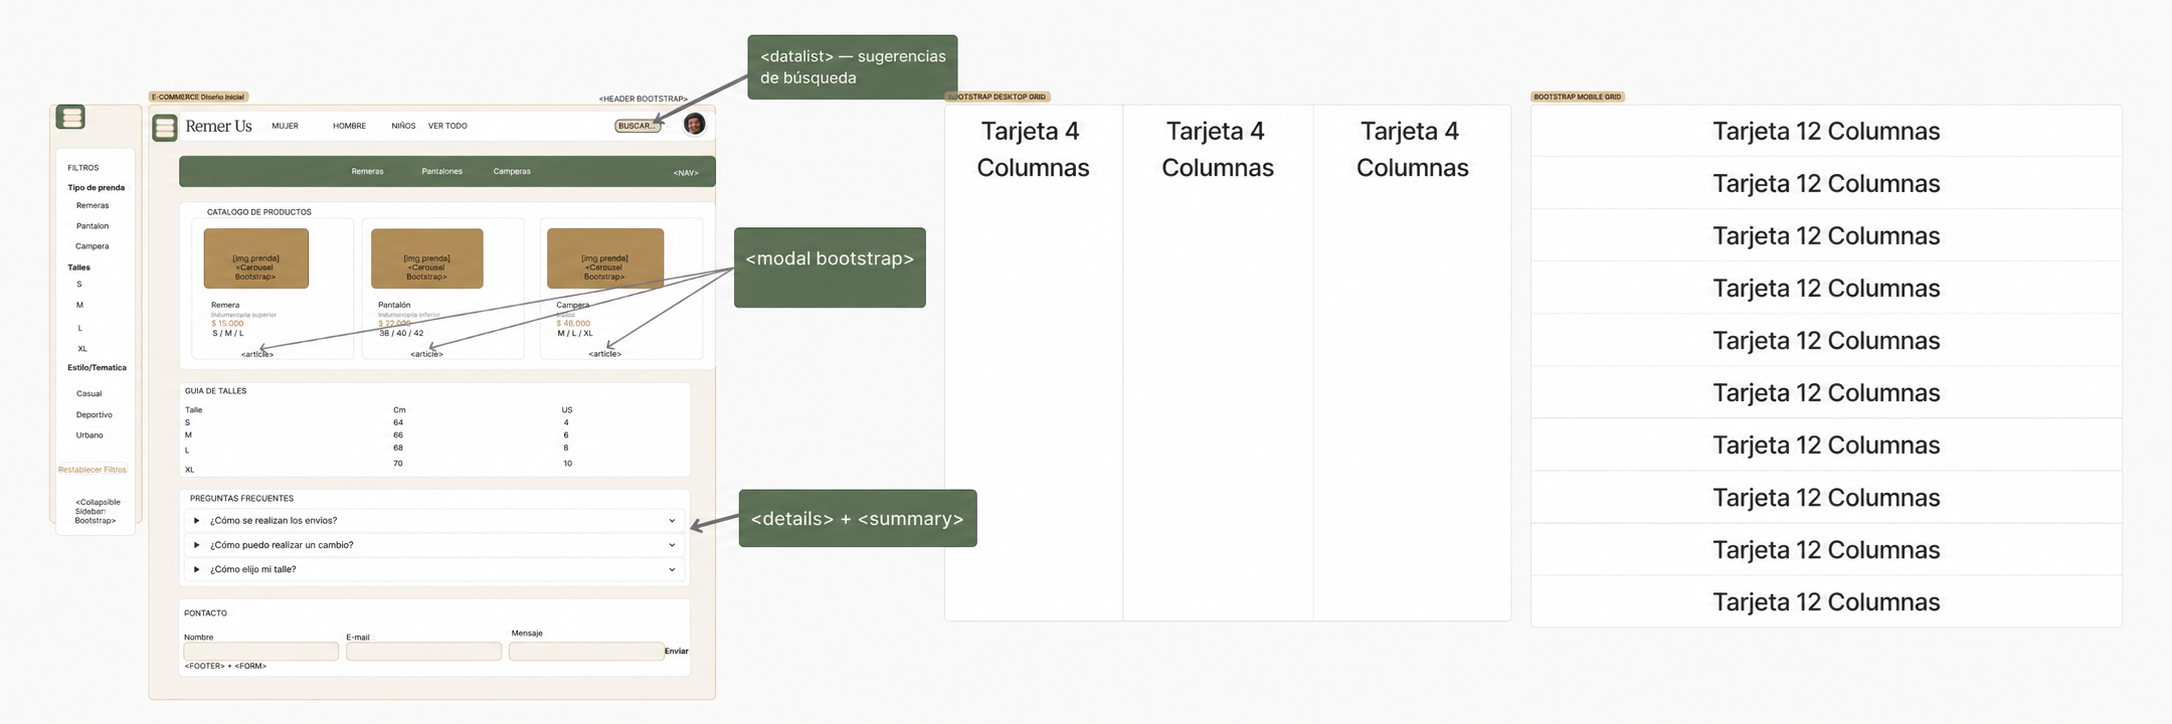
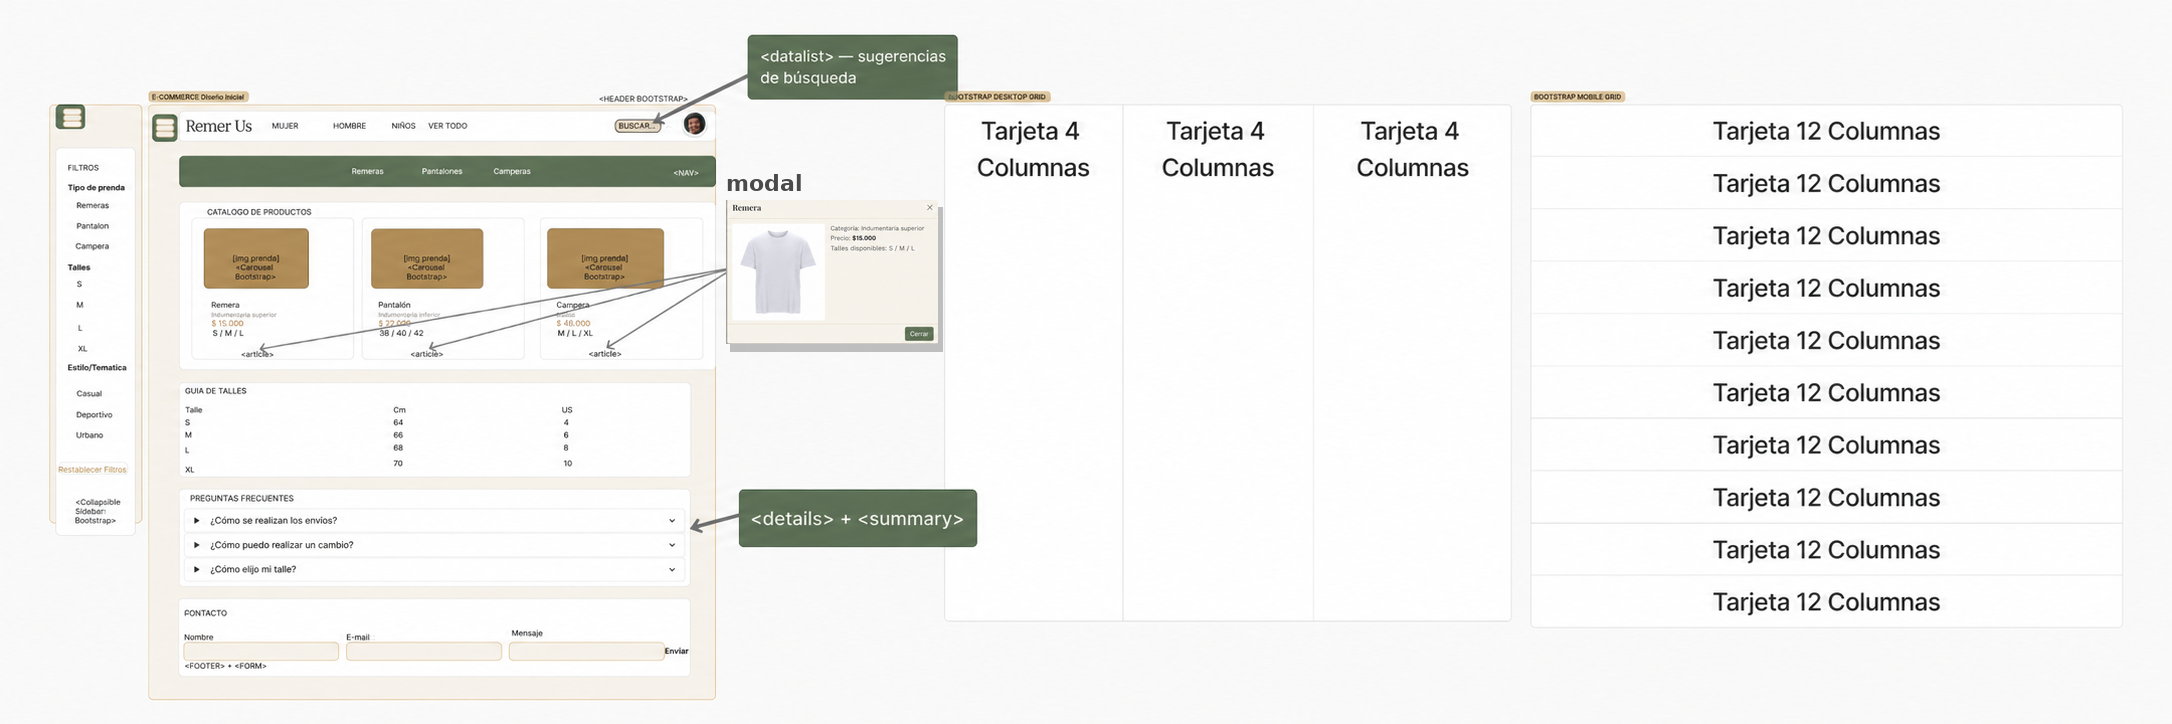
docs: actualizar mockup con modal Bootstrap RC11

Changed region(s): [[0.3393, 0.2431, 0.4319, 0.4862]]

diff --git a/changelog.md b/changelog.md
@@ -64,6 +64,8 @@ PR: [#71](https://github.com/dantebiondi666-prog/tienda-online/pull/71)
 - [fix/rc10-textarea-resize] [RC10] Se limita el redimensionamiento vertical del campo de mensaje del formulario de contacto para evitar un crecimiento indefinido del `textarea`.
   PR: [#73](https://github.com/dantebiondi666-prog/tienda-online/pull/73)
 
+- [fix/rc11-mockup-modal] [RC11] Se actualiza el mockup del Primer Parcial para representar visualmente el Modal Bootstrap con su estructura, contenido y controles, manteniendo la composición general del diseño.
+  PR: [#74](https://github.com/dantebiondi666-prog/tienda-online/pull/74)
 ---
 
 ## [Release Actividad Obligatoria N°2] - 2026-09-27
